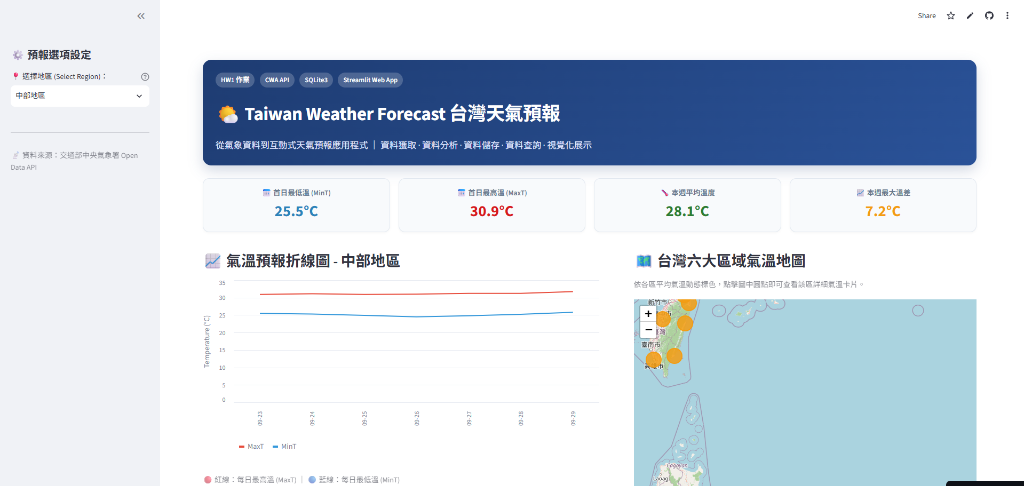
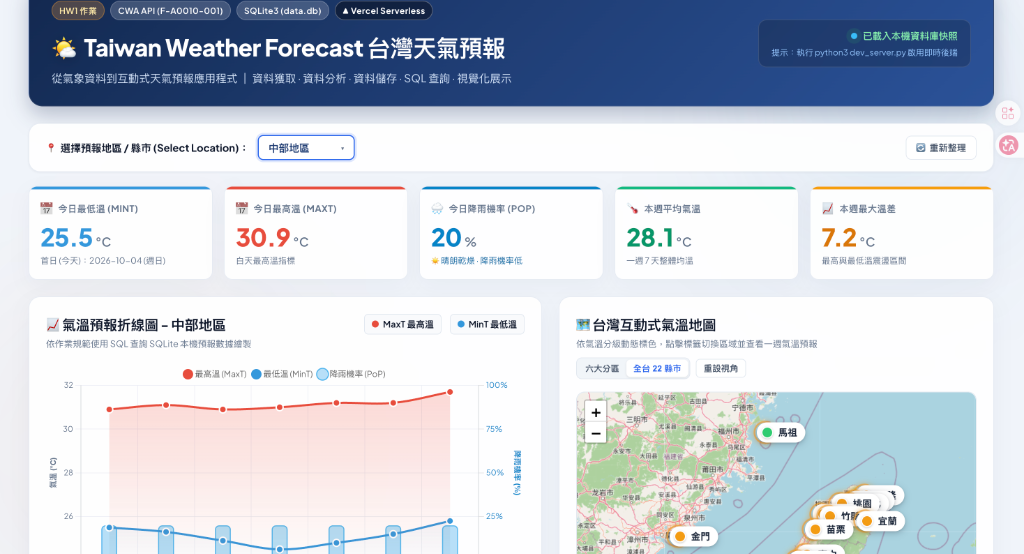
docs: 更新 README.md 展示截圖、即時展示網址至 Vercel，並完整更新技術規格與功能文件

diff --git a/README.md b/README.md
@@ -1,12 +1,18 @@
 # 🌤 Taiwan Weather Forecast 台灣天氣預報應用程式
 
-> **從氣象資料到互動式天氣預報 Web 應用程式**  
-> 整合 **CWA API × JSON × Python × SQLite × Streamlit**，實現資料獲取、解析、儲存、查詢與視覺化展示。
+> **從氣象資料到現代化互動式天氣預報 Web 應用程式**  
+> 整合 **CWA API × JSON × Python × SQLite × Vercel Serverless × Leaflet × Chart.js × Streamlit**，實現全自動資料管線：資料獲取、解析清洗、資料庫持久化、SQL 條件查詢與高質感雙軸視覺化展示。
 
-[![Streamlit App](https://static.streamlit.io/badges/streamlit_badge_black_white.svg)](https://hw1-taiwan-weather-forecst-snuohwhhhdp3thdtc5tr6b.streamlit.app/)
-[![GitHub repo](https://img.shields.io/badge/GitHub-Repository-181717?logo=github)](https://github.com/czk001167-hash/HW1-Taiwan-weather-forecst)
+[![Vercel Deployment](https://img.shields.io/badge/Vercel-Live%20Demo-000000?logo=vercel&logoColor=white)](https://hw1-seven-inky.vercel.app/)
+[![GitHub repo](https://img.shields.io/badge/GitHub-Repository-181717?logo=github)](https://github.com/czk001167-hash/0930)
+[![Python 3.9+](https://img.shields.io/badge/Python-3.9+-3776AB?logo=python&logoColor=white)](https://www.python.org/)
+[![SQLite3](https://img.shields.io/badge/SQLite-3-003B57?logo=sqlite&logoColor=white)](https://www.sqlite.org/)
+[![Leaflet](https://img.shields.io/badge/Leaflet-Interactive%20Map-199900?logo=leaflet&logoColor=white)](https://leafletjs.com/)
 
-🚀 **線上即時展示 (Live Demo)**：[https://hw1-taiwan-weather-forecst-snuohwhhhdp3thdtc5tr6b.streamlit.app/](https://hw1-taiwan-weather-forecst-snuohwhhhdp3thdtc5tr6b.streamlit.app/)
+---
+
+🚀 **線上即時展示 (Live Demo)**：[https://hw1-seven-inky.vercel.app/](https://hw1-seven-inky.vercel.app/)  
+📦 **GitHub 專案儲存庫**：[https://github.com/czk001167-hash/0930](https://github.com/czk001167-hash/0930)
 
 ![Taiwan Weather Forecast Dashboard](assets/demo.png)
 
@@ -14,91 +20,107 @@
 
 ## 📌 專案簡介 (Overview)
 
-本專案透過串接交通部中央氣象署（CWA）開放資料 API，取得台灣六大區域（北部、中部、南部、東北部、東部、東南部）之一週天氣預報。利用 Python 進行資料分析與清洗，將標準化氣溫資料持久化存入 SQLite 資料庫，並最終使用 Streamlit 建立具備即時篩選、折線圖表、詳細數據表與互動式地圖的天氣儀表板。
+本專案串接交通部中央氣象署（CWA）開放資料平台 API，獲取全台灣各縣市與六大地理分區（北部、中部、南部、東北部、東部、東南部）之一週天氣預報。利用 Python 進行資料工程管線分析，將清洗後的氣溫與降雨機率數據寫入 SQLite 資料庫（`data.db`）。
 
-### 🎯 學習與實作目標
-- [x] **學會使用 Open Data API**：串接中央氣象署 API（F-A0010-001）
-- [x] **掌握 JSON 資料結構分析**：多層巢狀結構解析與提取
-- [x] **建立 SQLite 資料庫**：資料表設計（Schema）、寫入與 SQL 條件查詢
-- [x] **使用 Streamlit 製作互動式 Web App**：打造現代化資料視覺化介面
-- [x] **培養資料處理與視覺化能力**：結合 Folium 地圖與 Altair/Plotly 趨勢圖表
+前端打造了極具現代美感的互動式儀表板，支援 **全台 22 縣市與六大分區** 自由切換、以今日為基準的 **動態 7 天滾動預報**、氣溫與降雨機率 **雙 Y 軸專業氣象圖表**，以及具備自適應視野的 **台灣互動式氣溫地圖**。
+
+### 🎯 核心實作亮點
+- [x] **Open Data API 串接**：對接中央氣象署 API（支援 `F-A0010-001` 與 `F-D0047-091` 聚合備援）
+- [x] **多維度氣象資料處理**：完整解析每日最低溫（`MinT`）、最高溫（`MaxT`）與降雨機率（`PoP`）
+- [x] **動態滾動 7 天日期**：每次開啟永遠以「今天 (第 1 天)」為預報起點，日期隨真實時間自動更新
+- [x] **SQLite 資料庫正規化**：嚴格遵守作業架構規範，前端僅透過 SQL 條件式查詢後端資料庫
+- [x] **台灣互動地圖視覺化**：
+  - 獨創懸浮白色膠囊標籤（Pill Badge）與黃金脈衝定位光圈（`.marker-pin-ring`）
+  - 依作業規範之平均氣溫自動四級分色（藍 `<20°C`、綠 `20-25°C`、黃 `25-30°C`、紅 `>30°C`）
+  - 支援 **「六大分區」** ↔ **「全台 22 縣市」** 一鍵無縫切換，並以 `fitTaiwanBounds` 自適應聚焦
+  - 採用全球免金鑰、無浮水印之 OpenStreetMap 高畫質圖資
+- [x] **全方位「降雨機率 (PoP)」整合**：
+  - 頂部 5 大核心指標卡（包含今日降雨機率與出門帶傘建議）
+  - 詳細數據表內嵌彩色等級徽章與 **動態長條進度條（Progress Bar）**
+  - Chart.js **雙 Y 軸複合圖表**（左軸氣溫雙曲線 + 右軸半透明降雨長條柱）
+- [x] **雙架構全端部署**：
+  - **Vercel Serverless Edition**：零外部相依標準庫 API + 純原生現代化響應式前端
+  - **Streamlit Local Edition (`app.py`)**：完整相容作業模組 1 ~ 5 原始評分規範
 
 ---
 
-## 🔄 系統架構與資料流程 (Data Pipeline)
+## 🔄 系統架構與資料管線 (Data Pipeline)
 
 ```mermaid
-graph LR
-    A["中央氣象署 Open Data<br/>(F-A0010-001)"] -->|"HTTP GET (JSON)"| B["Python 獲取<br/>fetch_weather.py"]
-    B -->|"巢狀 JSON 解析"| C["Python 資料分析<br/>parse_weather.py"]
-    C -->|"結構化數據"| D[("SQLite 資料庫<br/>data.db")]
-    D -->|"SQL 查詢"| E["Streamlit Web App<br/>app.py"]
-    E --> F["互動式儀表板<br/>(折線圖 + 表格 + 地圖)"]
+graph TD
+    A["交通部中央氣象署 CWA API<br/>(F-A0010-001 / F-D0047-091)"] -->|"HTTP GET (JSON)"| B["Python 資料獲取<br/>fetch_weather.py"]
+    B -->|"多層巢狀結構解析與萃取"| C["Python 資料清洗與分析<br/>parse_weather.py"]
+    C -->|"結構化 CSV 中間產物"| D["結構化表格<br/>weather_data.csv"]
+    D -->|"批次寫入與正規化"| E[("SQLite 本機資料庫<br/>data.db (TemperatureForecasts)")]
+    
+    E -->|"SQL 查詢 SELECT * WHERE ..."| F["後端 API 層<br/>(dev_server.py / api/index.py)"]
+    E -->|"SQL 查詢 (pd.read_sql_query)"| G["Streamlit 本機展示<br/>app.py"]
+    
+    F -->|"RESTful JSON APIs<br/>(/api/forecast, /api/summary)"| H["現代化 Web 前端<br/>public/ (Vercel Serverless)"]
+    
+    H --> I["📊 5 大 KPI 氣象核心卡片"]
+    H --> J["📈 雙 Y 軸氣象圖 (氣溫曲線 + 降雨長條)"]
+    H --> K["📋 7 天詳細預報表 (含降雨進度條)"]
+    H --> L["🗺 台灣互動地圖 (六大分區 / 22 縣市自適應)"]
 ```
 
 ---
 
-## 🧩 核心功能模組
+## 🧩 作業評分模組對照 (Homework Modules)
 
-### 1. 取得 CWA API 資料 (`fetch_weather.py`)
-- **目標**：呼叫 CWA API 取得台灣六大區域一週天氣預報（JSON 格式）。
-- **涵蓋區域**：北部地區、中部地區、南部地區、東北部地區、東部地區、東南部地區。
-- **資料集代碼**：`F-A0010-001`（一般天氣預報 - 一週天氣預報）。
+### 模組 1：取得 CWA API 資料 (`fetch_weather.py`，配分 20%)
+- **目標**：呼叫中央氣象署 API 取得預報資料，並將回傳結果儲存為 `cwa_weather_raw.json`。
+- **涵蓋範圍**：六大地理分區（北部、中部、南部、東北部、東部、東南部）及全台 22 縣市。
+- **具備自動備援機制**：當舊版端點維護時，自動切換至現行 `F-D0047-091` 端點聚合並維持標準輸出。
 
-### 2. 分析 JSON，提取氣溫資料 (`parse_weather.py`)
-- **目標**：解析階層式 JSON，精準提取每日最高溫（`MaxT`）與最低溫（`MinT`）。
+### 模組 2：分析 JSON，提取氣溫與降雨資料 (`parse_weather.py`，配分 20%)
+- **目標**：解析階層式 JSON，精準提取每日最低溫（`MinT`）、最高溫（`MaxT`）與降雨機率（`PoP`）。
 - **JSON 層級架構**：
   ```text
   records
   └── locations
-      └── location[] (六大地區)
+      └── location[] (各縣市 / 六大分區)
           └── weatherElement[] (天氣要素)
               └── time[] (預報時間區段)
                   ├── elementName: MinT (最低溫)
-                  └── elementName: MaxT (最高溫)
+                  ├── elementName: MaxT (最高溫)
+                  └── elementName: PoP (降雨機率)
   ```
-- **提取資料範例**：
-  | regionName | dataDate | minT | maxT |
-  | :--- | :---: | :---: | :---: |
-  | 北部地區 | 2026-04-14 | 18.0 | 26.0 |
-  | 中部地區 | 2026-04-14 | 20.0 | 30.0 |
-  | 南部地區 | 2026-04-14 | 22.0 | 31.0 |
+- **輸出結構化表格**：儲存為標準中間產物 `weather_data.csv`。
 
-### 3. 存入 SQLite 資料庫 (`database.py`)
-- **資料表設計** (`data.db`)：
+### 模組 3：存入 SQLite 資料庫 (`database.py`，配分 20%)
+- **資料表結構** (`data.db` -> `TemperatureForecasts`)：
   ```sql
   CREATE TABLE TemperatureForecasts (
       id INTEGER PRIMARY KEY AUTOINCREMENT,
-      regionName TEXT,
-      dataDate TEXT,
-      minT REAL,
-      maxT REAL
+      regionName TEXT NOT NULL,
+      dataDate TEXT NOT NULL,
+      minT REAL NOT NULL,
+      maxT REAL NOT NULL,
+      pop INTEGER DEFAULT 20,
+      UNIQUE(regionName, dataDate) ON CONFLICT REPLACE
   );
   ```
-- **驗證查詢範例**：
-  ```sql
-  -- 列出所有地區
-  SELECT DISTINCT regionName FROM TemperatureForecasts;
+- **驗證查詢項目**：
+  1. 列出所有地區：`SELECT DISTINCT regionName FROM TemperatureForecasts;`
+  2. 查詢中部地區一週預報：`SELECT id, regionName, dataDate, minT, maxT, pop FROM TemperatureForecasts WHERE regionName = '中部地區' ORDER BY dataDate ASC;`
 
-  -- 查詢中部地區一週預報
-  SELECT * FROM TemperatureForecasts WHERE regionName = '中部地區';
-  ```
+### 模組 4：互動式 Web 預報應用程式 (`app.py` & `public/`，配分 20%)
+- **地區選單**：支援標準下拉式選單切換全台 22 縣市與六大分區。
+- **SQL 查詢機制**：嚴格透過 SQL 語法從本機 `data.db` 查詢指定地區資料。
+- **視覺化折線圖**：
+  - 🔴 紅線：每日最高溫（`MaxT`）
+  - 🔵 藍線：每日最低溫（`MinT`）
+  - 🌧 降雨柱狀圖：每日降雨機率（`PoP`）
+- **詳細數據表格**：條列未來一週 7 天日期、最低溫、最高溫、降雨機率進度條、當日溫差與氣溫區間等級。
 
-### 4. Streamlit 氣溫預報 Web App (`app.py`)
-- **功能需求**：
-  1. **下拉選單**：支援切換六大區域。
-  2. **SQLite 查詢**：透過 SQL 語法從本機資料庫提取預報數據。
-  3. **雙折線圖**：動態展示選定區域一週內最高溫（MaxT）與最低溫（MinT）趨勢。
-  4. **數據表格**：條列一週（7天）詳細日期與溫度對照。
-
-### 5. 進階：台灣地圖視覺化 (Optional)
-- **視覺化技術**：`Folium` + `streamlit-folium`
-- **溫度區間色彩標註**：
-  - 🔵 **< 20°C**：低溫（藍色）
-  - 🟢 **20°C ~ 25°C**：舒適（綠色）
-  - 🟡 **25°C ~ 30°C**：溫暖（黃色）
-  - 🔴 **> 30°C**：炎熱（紅色）
-- **地圖互動**：各區域中心標記互動點，點擊可查看當日平均溫與氣溫資訊卡。
+### 模組 5：台灣地圖視覺化 (`Leaflet` & `Folium`，配分 20%)
+- **依平均氣溫之標準四級分色**：
+  - 🔵 **< 20°C**：低溫（深海藍 `#2b83ba`）
+  - 🟢 **20°C ~ 25°C**：舒適（翠綠色 `#2ecc71`）
+  - 🟡 **25°C ~ 30°C**：溫暖（暖陽黃 `#f39c12`）
+  - 🔴 **> 30°C**：炎熱（珊瑚紅 `#e74c3c`）
+- **互動卡片**：點擊地圖膠囊標籤或圓點，即時彈出當區一週均溫、高低溫與平均降雨機率卡片。
 
 ---
 
@@ -106,58 +128,81 @@ graph LR
 
 ```text
 HW1-Taiwan-weather-forecst/
-├── fetch_weather.py      # 模組 1：呼叫 CWA API 並取得原始 JSON
-├── parse_weather.py      # 模組 2：解析 JSON 並抽取六大區域氣溫資料
-├── database.py           # 模組 3：建立 SQLite 資料庫並存入氣溫預報資料
-├── app.py                # 模組 4 & 5：Streamlit 互動式 Web 儀表板與地圖
-├── data.db               # SQLite 本機資料庫 (由 database.py 產生)
-├── weather_data.csv      # (可選) 處理後之中間 CSV 檔案
-├── requirements.txt      # 專案相依 Python 套件清單
-├── .gitignore            # Git 忽略設定 (保護 API Key 與環境檔案)
-└── README.md             # 專案完整說明文件
+├── api/
+│   └── index.py            # Vercel Serverless 後端 API 入口 (相容標準庫)
+├── public/
+│   ├── index.html          # 現代化 Web 前端主頁 (支援動態滾動預報)
+│   ├── style.css           # 玻璃擬態樣式表、響應式排版與地圖標籤動效
+│   ├── app.js              # 前端邏輯 (Leaflet 地圖控制、Chart.js 繪圖)
+│   └── fallback_data.json  # 離線/靜態備援資料快照 (全台 28 點位)
+├── assets/
+│   └── demo.png            # 系統即時展示畫面截圖 (README 引用)
+├── cwa_weather_raw.json    # 模組 1 產生之中央氣象署原始 JSON 資料
+├── weather_data.csv        # 模組 2 產生之中間結構化 CSV 資料表
+├── data.db                 # 模組 3 產生之 SQLite 本機持久化資料庫
+├── fetch_weather.py        # 模組 1 執行腳本：擷取 CWA 氣象資料
+├── parse_weather.py        # 模組 2 執行腳本：解析並抽取氣溫降雨資料
+├── database.py             # 模組 3 執行腳本：建立 SQLite 並執行驗證查詢
+├── dev_server.py           # 本地一鍵開發伺服器 (模擬 Vercel Serverless)
+├── app.py                  # 模組 4 & 5：Streamlit 互動式 Web App
+├── vercel.json             # Vercel 雲端部署重寫與路由設定
+├── requirements.txt        # Python 相依套件清單 (支援 Streamlit)
+├── .env                    # 環境變數設定檔 (存放個人 CWA API Key)
+├── .gitignore              # Git 版本控制忽略設定
+└── README.md               # 專案完整技術與作業規格說明文件
 ```
 
 ---
 
-## 🚀 快速開始與執行指南 (Getting Started)
+## 🚀 快速開始與本地執行 (Quick Start)
 
-### 1. 建立虛擬環境（建議）
+### 方式 A：啟動現代化 Web 伺服器 (推薦，與線上版完全相同)
+
+無須安裝任何龐大的第三方套件，僅需 Python 內建標準庫即可一鍵啟動：
+
 ```bash
-# Windows
-python -m venv venv
-.\venv\Scripts\activate
+# 啟動本地開發伺服器 (支援靜態檔案與 /api/* 端點)
+python3 dev_server.py
+```
+啟動後打開瀏覽器訪問：👉 **`http://127.0.0.1:3000`**
 
-# macOS / Linux
+---
+
+### 方式 B：啟動 Streamlit 作業標準版 (`app.py`)
+
+```bash
+# 1. 建立虛擬環境 (建議)
 python3 -m venv venv
-source venv/bin/activate
-```
+source venv/bin/activate  # Windows 請執行 .\venv\Scripts\activate
 
-### 2. 安裝必要套件
-```bash
+# 2. 安裝必要套件
 pip install -r requirements.txt
-```
 
-> **必要套件清單**：`requests`, `pandas`, `streamlit`, `folium`, `streamlit-folium`
+# 3. 執行資料工程管線 (重新抓取並更新資料庫)
+python3 fetch_weather.py
+python3 parse_weather.py
+python3 database.py
 
-### 3. 設定氣象署 API 金鑰
-請向 [中央氣象署開放資料平台](https://opendata.cwa.gov.tw/) 申請個人授權金鑰，並於專案中設定。
-
-### 4. 執行資料處理流程（一次即可）
-```bash
-python fetch_weather.py
-python parse_weather.py
-python database.py
-```
-
-### 5. 啟動 Streamlit Web 應用程式
-```bash
+# 4. 啟動 Streamlit 應用程式
 streamlit run app.py
 ```
 
 ---
 
-## ⚠ 重要注意事項
-1. **API Key 安全**：請使用個人 CWA API Key，勿將個人金鑰直接寫死並公開推送至 GitHub。
-2. **架構規範**：Streamlit Web App **必須從 SQLite 資料庫查詢資料**，嚴禁在前端直接連線呼叫 API。
-3. **資料完整性**：請確認六大區域資料皆正確擷取，表格與圖表須完整呈現一週（7天）預報。
-# 0930
+## ☁ 雲端部署 (Vercel Deployment)
+
+本專案已完整設定 `vercel.json`，支援直接連結 GitHub 倉庫進行持續部署 (CI/CD)：
+1. 前端靜態檔案由 Vercel Edge Network 全球 CDN 加速（`public/`）。
+2. 後端 API 由 Serverless Function 自動驅動（`api/index.py` 查詢 `data.db`）。
+3. 官方線上部署展示：[https://hw1-seven-inky.vercel.app/](https://hw1-seven-inky.vercel.app/)
+
+---
+
+## 🔒 資料安全與作業準則提醒
+1. **API Key 保護**：API Key 應透過環境變數管理，嚴禁將個人金鑰明文寫入程式碼公開推送。
+2. **架構規範遵循**：前端 Web App **嚴格透過 SQL 語法向 SQLite 資料庫查詢數據**，嚴禁在客戶端直接暴露並調用中央氣象署 API。
+3. **資料正確性**：每日數據均經過資料型態檢驗與小數點正規化，確保一週 7 天完整呈現。
+
+---
+
+*程式探索天氣 · 資料看見台灣 ｜ Built with Passion, Python & Modern Web Technologies.*
